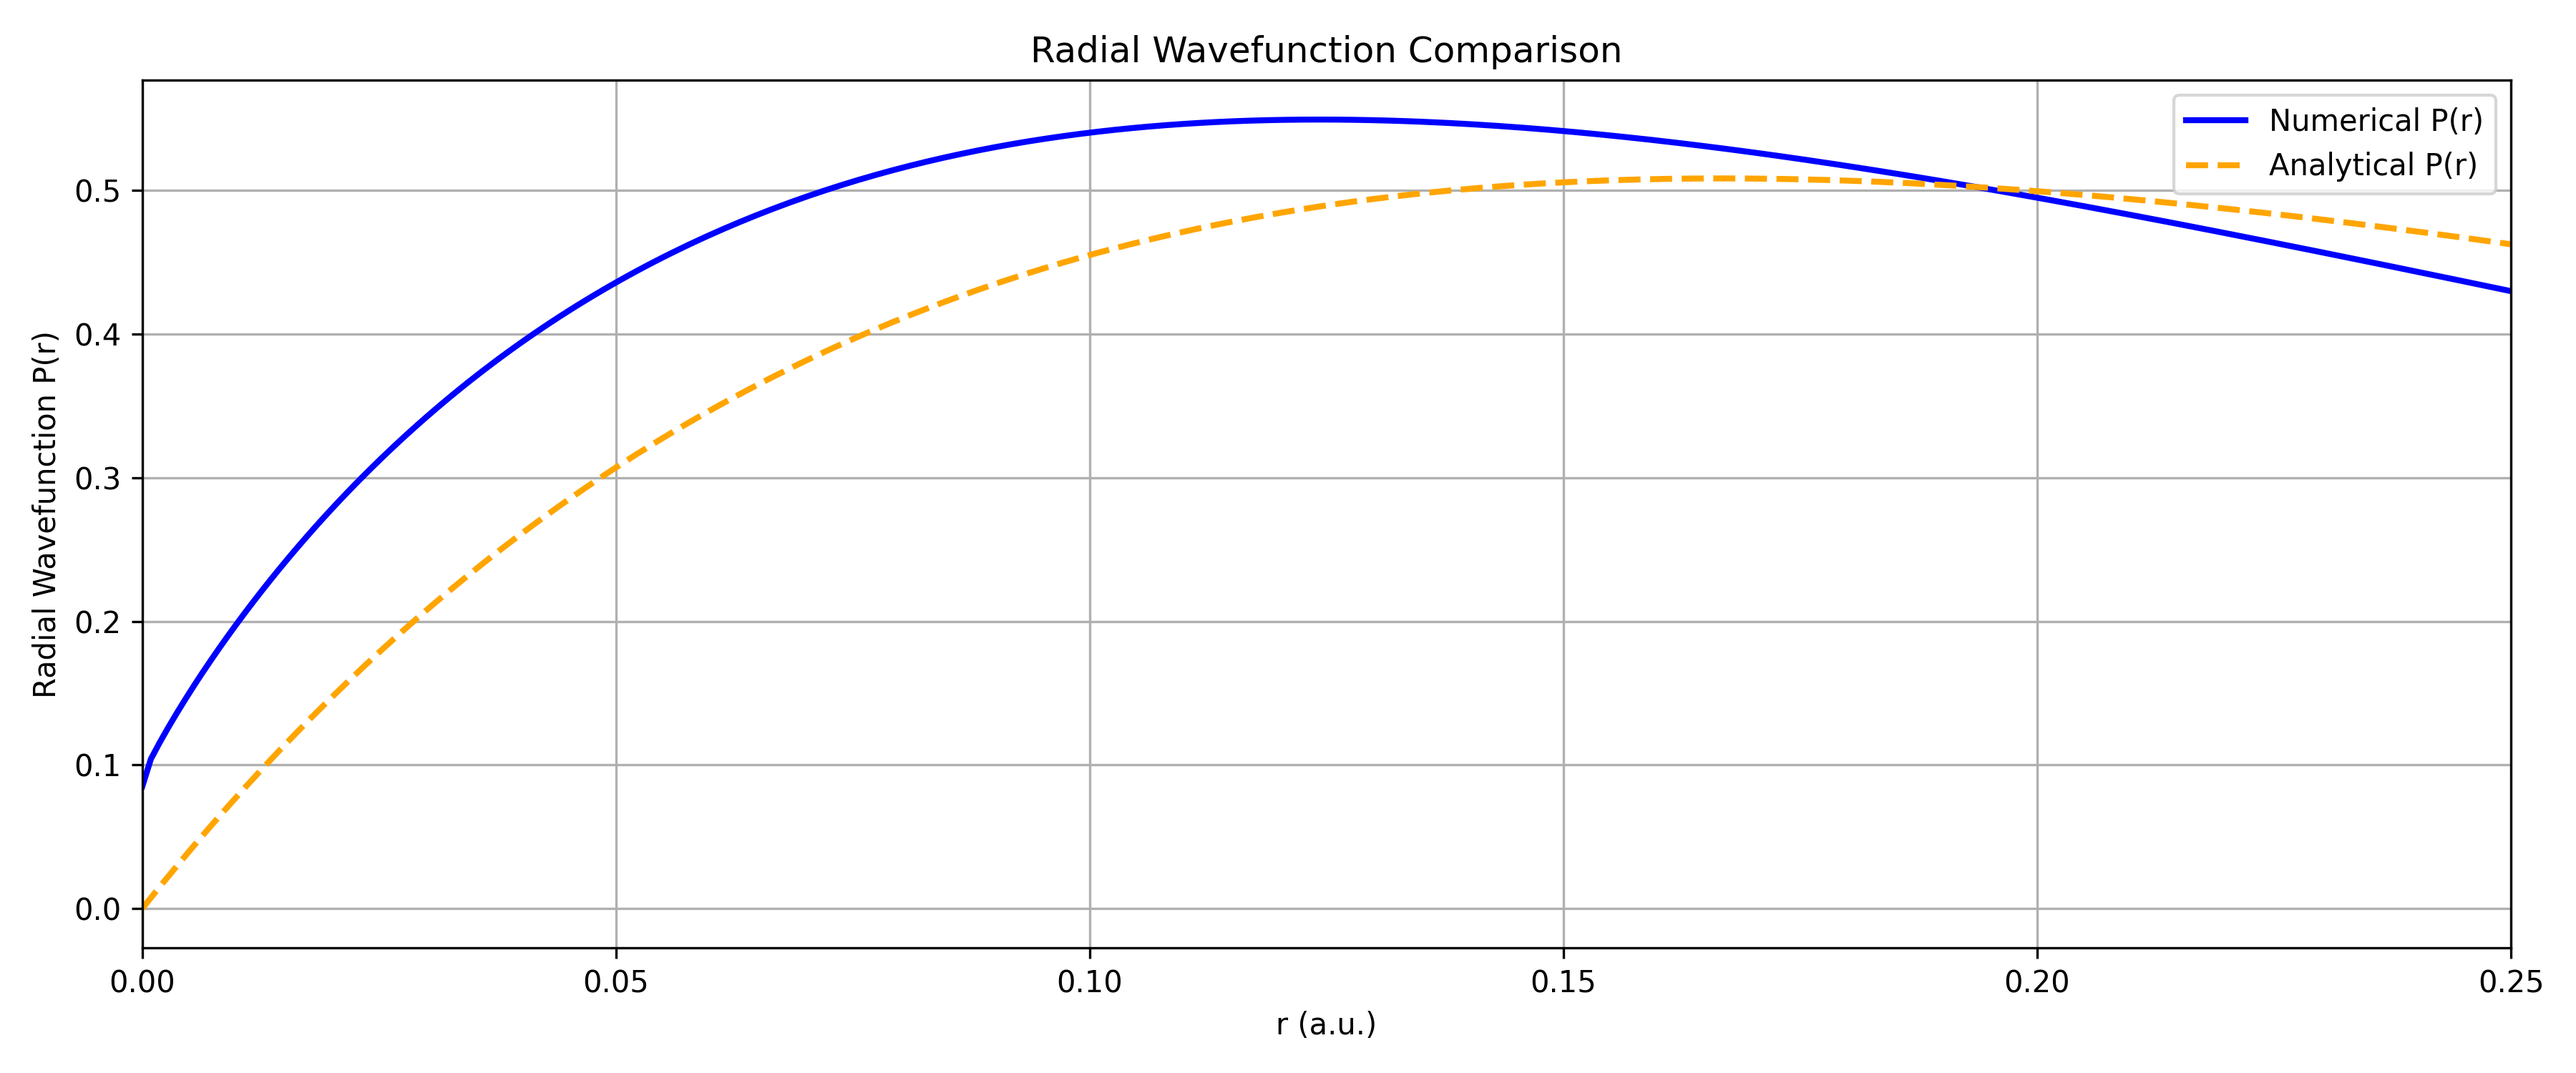
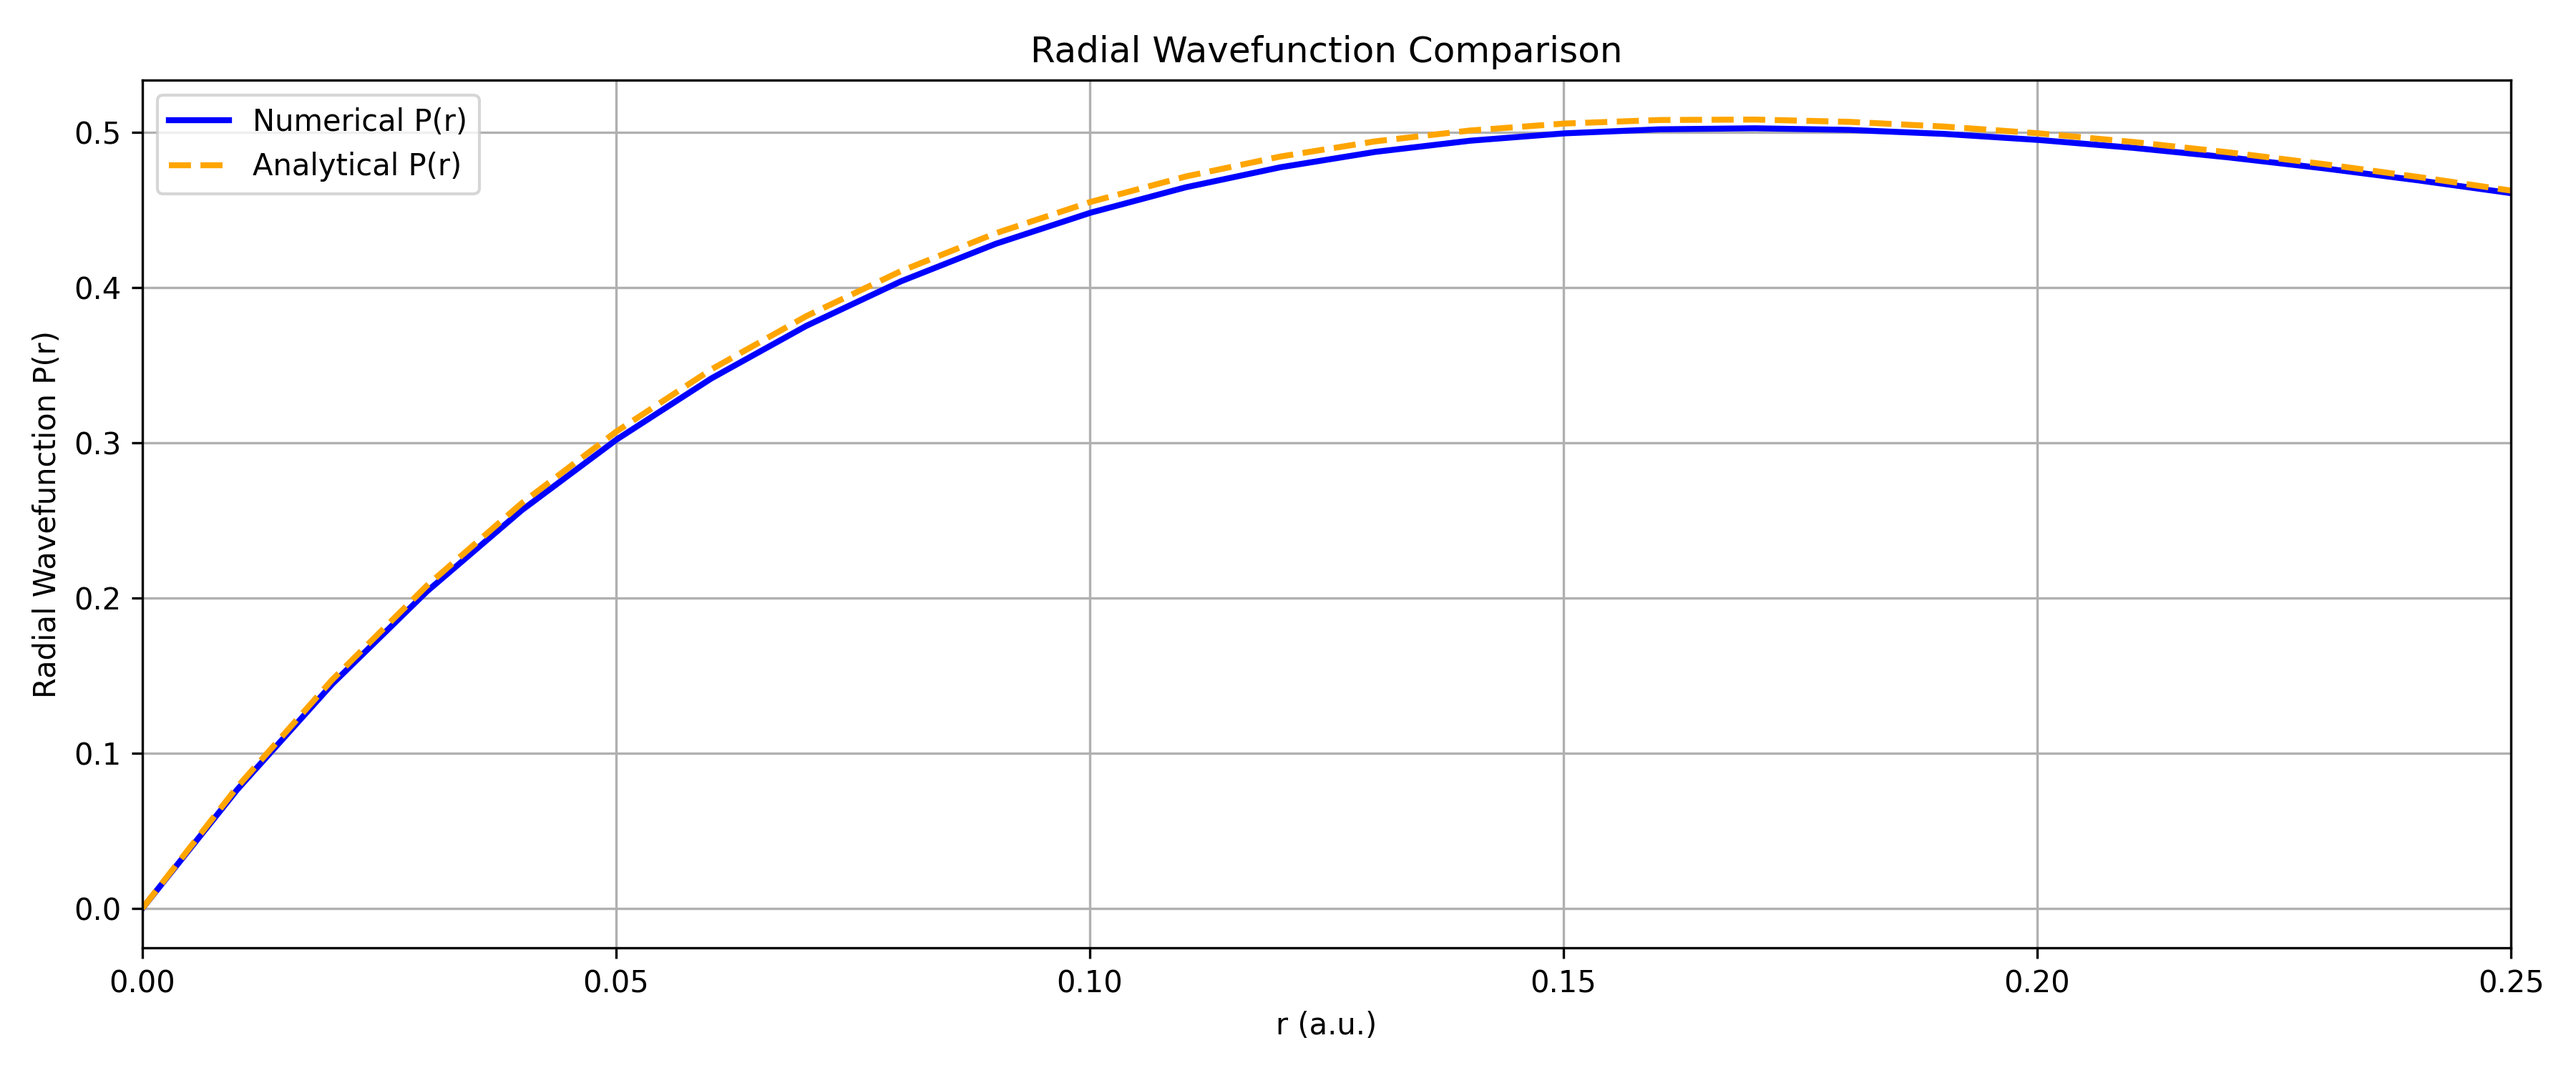
Debug DFT module: Streamline SCF loop calculations

diff --git a/density-functional-theory/DFT.py b/density-functional-theory/DFT.py
@@ -62,8 +62,6 @@ class RadialDFT:
 
     def norm(self):
         norm = np.sqrt(4.0 * np.pi * np.trapezoid(self.P ** 2, self.r))
-        if norm == 0.0:
-            raise ValueError("Wave function norm is zero, cannot normalize.")
         self.P /= norm
         return norm
 
@@ -129,14 +127,14 @@ class RadialDFT:
 
         return self.v_xc
 
-    def get_v_ks(self):
+    def get_v(self):
         """Total Kohn-Sham potential V_KS = V_nuc + V_ee + V_xc"""
         v_nuc = self.get_v_nuc()
         v_ee = self.get_v_ee()
         v_xc = self.get_v_xc()
         self.v_ks = v_nuc + v_ee + v_xc
 
-        return self.v_ks, self.v_ee, self.v_xc
+        return self.v_ks, self.v_nuc, self.v_ee, self.v_xc
 
     def solve_ks(self, V, eps):
         """Solve the Kohn-Sham equation using Numerov + Thomas method"""
@@ -161,9 +159,9 @@ class RadialDFT:
             Ai =  1.0 + h2 / 12.0 * fi_1
             Bi =  1.0 + h2 / 12.0 * fi1
             Ci = -2.0 + 5.0 * h2 / 6.0 * fi
+
             # see Eq. (4) from Thomas method https://www.dsedu.org/courses/dft/thomas
             AC = Ai * alpha[i] + Ci
-
             alpha[i+1] = - Bi / AC
             beta[i+1] = - Ai * beta[i] / AC
 
@@ -176,7 +174,6 @@ class RadialDFT:
 
         self.P = Y                                          # P(1) and P(N) are fixed
         norm = self.norm()
-        # norm_after = self.norm()
 
         return self.P, norm
 
@@ -189,7 +186,6 @@ class RadialDFT:
             d2P[i] = (self.P[i + 1] - 2.0 * self.P[i] + self.P[i - 1]) / h2     # Finite difference for second derivative
 
         d2P[0] = (self.P[1] - 2.0 * self.P[0]) / h2
-        # d2P[-1] = (self.P[-1] - 2.0 * self.P[-2] + self.P[-3]) / h2
 
         integrand = self.P * (-0.5 * d2P + V * self.P)
 
@@ -254,33 +250,34 @@ class RadialDFT:
         self.history["dE"].append(dE)
 
     def scf_loop(self, prec=1e-5, alpha=0.1, Nmax=100):
-        V_old, Vee_old, Vxc_old = self.get_v_ks()
-        V_mixed = V_old.copy()
+        V_ks, Vnuc, Vee, Vxc = self.get_v()
+
+        # Here we use only nuclear potential as initial guess instead of full V_ks
+        V_old = Vnuc.copy()
+        V_mixed = V_old
 
         eps = - 0.5 * self.Z**2
 
-        E_ee, E_xc, E_xc1 = self.E_tot(Vee_old, Vxc_old)
+        E_ee, E_xc, E_xc1 = self.E_tot(Vee, Vxc)
         E_tot = eps + E_ee + E_xc + E_xc1
-        norm = self.norm()
-
-        self._save_iteration(self.P, V_mixed, self.v_nuc, Vee_old, Vxc_old, eps, E_ee, E_xc, E_xc1, E_tot, norm, None)
+        d_eps = None
 
         for it in range(1, Nmax + 1):
             self.P, norm = self.solve_ks(V_mixed, eps=eps)
-            eps_new = self.E_ks(V_mixed)
+            self._save_iteration(self.P, V_mixed, self.v_nuc, Vee, Vxc, eps, E_ee, E_xc, E_xc1, E_tot, norm, d_eps)
 
-            V_new, Vee_new, Vxc_new = self.get_v_ks()
+            logger.info(f"Iter {it}: ε = {eps:.8f}, norm={norm}, Δε = {f'{d_eps:.3e}' if d_eps is not None else "N/A"}")
+
+            V_new, Vnuc, Vee, Vxc = self.get_v()
             V_mixed = alpha * V_new + (1.0 - alpha) * V_old
 
-            E_ee, E_xc, E_xc1 = self.E_tot(Vee_new, Vxc_new)
+            eps_new = self.E_ks(V_mixed)
+
+            E_ee, E_xc, E_xc1 = self.E_tot(Vee, Vxc)
             E_tot = eps_new + E_ee + E_xc + E_xc1
 
             d_eps = abs(eps_new - eps)
 
-            self._save_iteration(self.P, V_mixed, self.v_nuc, Vee_new, Vxc_new, eps, E_ee, E_xc, E_xc1, E_tot, norm, d_eps)
-
-            logger.info(
-                f"Iter {it}: ε = {eps_new:.8f}, norm={norm}, Δε = {d_eps:.3e}")
             # return self.history, self.P_analytical, E_tot
             if d_eps < prec:
                 logger.info(f"🎯 SCF converged in {it} iterations on eigenvalue: ε = {eps_new:.8f}")
@@ -299,8 +296,8 @@ if __name__ == "__main__":
     # Parameters
     Z = 6  # Nuclear charge for Hydrogen-like atom
     r0 = 1e-5  # Minimum radius
-    rf = 20.0  # Maximum radius
-    N = 10000  # Number of mesh points
+    rf = 10.0  # Maximum radius
+    N = 1000  # Number of mesh points
 
     alpha = 0.1  # Mixing parameter for SCF
     prec = 1e-5  # Convergence tolerance
@@ -315,22 +312,22 @@ if __name__ == "__main__":
     norm = solver.norm()
     history, P_analytical, _= solver.scf_loop(alpha=alpha, prec=prec, Nmax=max_iter)
 
-    P_history = history['P'][1]
-    V_KS = history['V_ks'][1]
-    V_nuc = history['V_nuc'][1]
-    V_ee = history['V_ee'][1]
-    V_xc = history['V_xc'][1]
-
-    plt.figure(figsize=(12, 5))
-    plt.plot(r, V_nuc, label='V_nuc(r)', color='black', lw=2)
-    plt.plot(r, V_ee, label='V_ee(r)', color='green', lw=2)
-    plt.plot(r, V_xc, label='V_xc(r)', color='purple', lw=2)
-    plt.plot(r, V_KS, label='V_KS(r)', color='red', lw=2)
-    plt.ylabel('Radial Wavefunction P(r)')
-    plt.xlim([0, 0.25])
-    plt.ylim([-100, 100])
-
-    plt.legend()
-    plt.grid()
-    plt.xlim(0, 1)
-    plt.show()
+    # P_history = history['P'][1]
+    # V_KS = history['V_ks'][1]
+    # V_nuc = history['V_nuc'][1]
+    # V_ee = history['V_ee'][1]
+    # V_xc = history['V_xc'][1]
+    #
+    # plt.figure(figsize=(12, 5))
+    # plt.plot(r, V_nuc, label='V_nuc(r)', color='black', lw=2)
+    # plt.plot(r, V_ee, label='V_ee(r)', color='green', lw=2)
+    # plt.plot(r, V_xc, label='V_xc(r)', color='purple', lw=2)
+    # plt.plot(r, V_KS, label='V_KS(r)', color='red', lw=2)
+    # plt.ylabel('Radial Wavefunction P(r)')
+    # plt.xlim([0, 0.25])
+    # plt.ylim([-100, 100])
+    #
+    # plt.legend()
+    # plt.grid()
+    # plt.xlim(0, 1)
+    # plt.show()

diff --git a/density-functional-theory/main.py b/density-functional-theory/main.py
@@ -56,8 +56,8 @@ def plot(dft: RadialDFT, wavefunc=True, potential=True):
         plt.title('Radial Potentials')
         plt.legend()
         plt.grid()
-        plt.xlim(0, 0.25)
-        plt.ylim(-500, 500)
+        plt.xlim(0, 0.15)
+        plt.ylim(-300, 50)
 
         plt.tight_layout()
         plt.savefig("potential.png", dpi=300)
@@ -145,8 +145,8 @@ if __name__ == "__main__":
     # Parameters
     Z = 6  # Nuclear charge for Hydrogen-like atom
     r0 = 1e-5  # Minimum radius
-    rf = 9.0  # Maximum radius
-    N = 10000  # Number of mesh points
+    rf = 10.0  # Maximum radius
+    N = 1000  # Number of mesh points
 
     alpha = 0.1  # Mixing parameter for SCF
     prec = 1e-5  # Convergence tolerance
